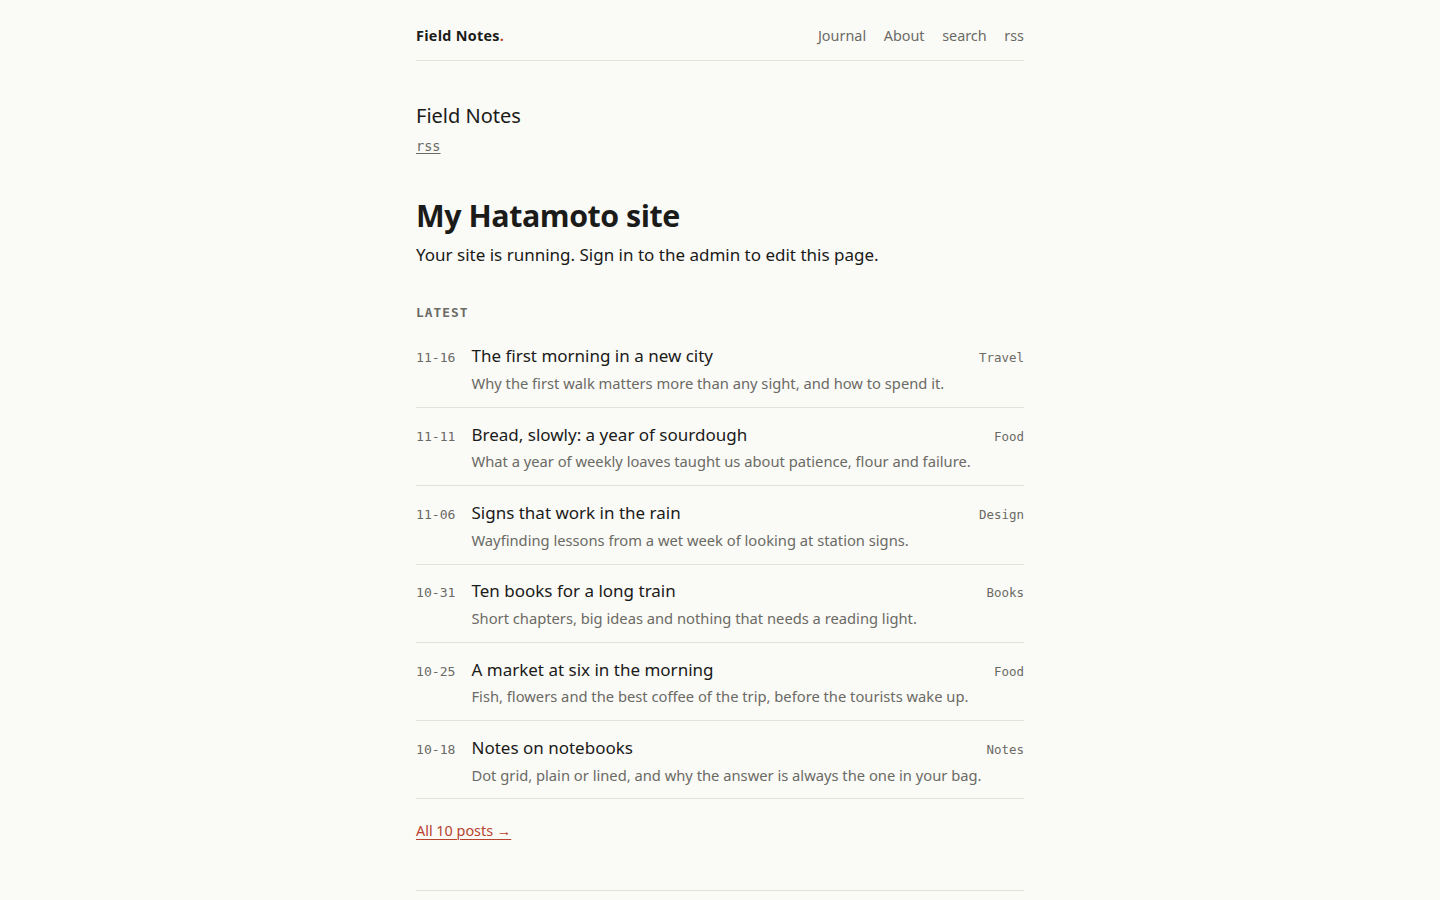
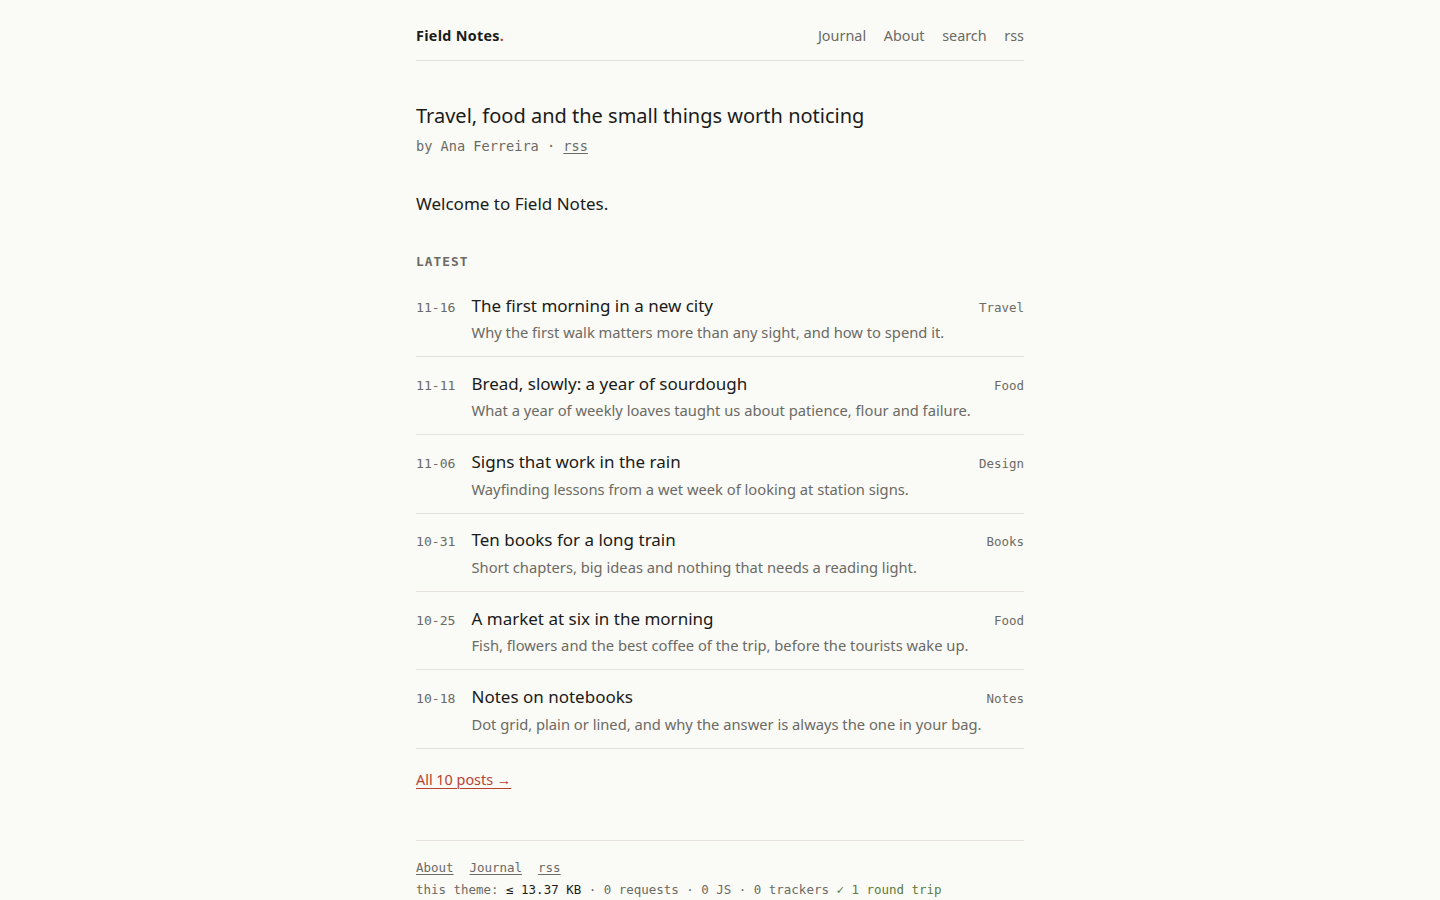
feat(sumi): readme, changelog and registry screenshot

diff --git a/themes/sumi/README.md b/themes/sumi/README.md
@@ -1,10 +1,28 @@
 # Sumi
 
-A text-first blog theme under 13.37 KB with no requests, JavaScript or trackers of its own. System fonts, monospace dates, hairline rows and one vermilion accent.
+A text-first blog theme for [Hatamoto](https://hatamoto.dev). System fonts, monospace
+dates, hairline rows and one vermilion accent.
 
 ![Sumi](assets/screenshot.png)
 
-A theme for [Hatamoto](https://hatamoto.dev), built for blog sites.
+**The size claim.** The theme adds no stylesheet, script, font or request of its own,
+and each page it renders stays under 13.37 KB gzipped (13,370 bytes) on the blog seed.
+Anything the Hatamoto core or the owner adds (the analytics beacon, a consent banner,
+fonts, tags) is not counted by this claim.
+
+- **Home** with the site tagline, the latest posts as dated rows and a link to the archive.
+- **Posts** with a featured image, headings, lists, quotes, tables, code, an older link
+  and more posts from the same category.
+- **Archive, category, author and search pages** as hairline rows, the archive grouped by
+  year. Search is a plain form, with the match marked in titles and excerpts.
+- **404** with a search box and the latest posts.
+- **Pages and Page Builder sections** in plain typography.
+- **Light by default**, dark or following the system through a setting. There is no
+  visitor toggle: it would need JavaScript.
+
+All CSS is inline in each page, so there is no stylesheet to fetch. Everything works
+without JavaScript, and the theme runs under the strict public script policy
+(`csp.strictScripts`).
 
 ## Install
 
@@ -23,21 +41,32 @@ page keeps rendering.
 
 **Theme > Themes > Sumi > Settings**:
 
-| Setting | Default | What it does |
-| --- | --- | --- |
-| Colour mode | `light` | what a first visit shows: `light`, `dark` or `auto` (follows the system); visitors can still switch |
-| Spacing | `comfortable` | `compact` tightens the space between sections |
+| Key | Type | Default | What it does |
+| --- | --- | --- | --- |
+| `color_mode` | `light`, `dark`, `auto` | `light` | the colour scheme; `auto` follows the visitor's system |
+| `density` | `comfortable`, `compact` | `comfortable` | `compact` tightens rows and sections |
+| `show_theme_line` | boolean | `true` | the footer line about the theme's size and requests |
+| `posts_on_home` | integer 3 to 20 | `6` | how many posts the home page lists |
 
-Colours, fonts and corners follow **Theme > Colours and fonts**.
+## Colours
+
+**Theme > Colours and fonts** restyles the theme. The primary colour drives the accent
+(links, the dot after the site name, quote rules); the default is a vermilion. In dark
+mode the accent is derived from it, lightened so it stays readable on the dark page.
 
 ## Develop
 
 From the root of the `hatamoto-themes` repository:
 
 ```sh
-scripts/dev-site.sh blog themes/sumi --serve   # a seeded local site with this theme, live reload
-scripts/check.sh themes/sumi                            # the full check: package, render, browser, screenshot
+scripts/dev-site.sh blog themes/sumi --serve    # a seeded local site with this theme, live reload
+scripts/check.sh themes/sumi --screenshot       # the full check, and the registry screenshot
+themes/sumi/dev/budget.sh                       # bytes per blog seed page, fails over 13,370
 ```
+
+`budget.sh` runs on the core this repository pins, which predates the speculation rules
+and the analytics tag; it adds their size as a constant. Set `HATAMOTO_BIN` to a build of
+a newer core to measure the real thing.
 
 `dev/` is not part of the package.
 

diff --git a/themes/sumi/CHANGELOG.md b/themes/sumi/CHANGELOG.md
@@ -2,4 +2,12 @@
 
 ## 0.1.0
 
-- First version.
+- First version: a text-first blog theme with home, post, page, archive, category,
+  author, search and 404 layouts.
+- No stylesheet, script, font or request of its own: the CSS is inline, fonts are the
+  system stacks, there is no JavaScript.
+- Settings: `color_mode` (light, dark or auto), `density`, `show_theme_line`,
+  `posts_on_home`.
+- Search marks the match in titles and excerpts with a template-only highlight that
+  escapes everything and falls back to plain text for anything it cannot match safely.
+- Plain typography for Page Builder sections and the built-in partials.
